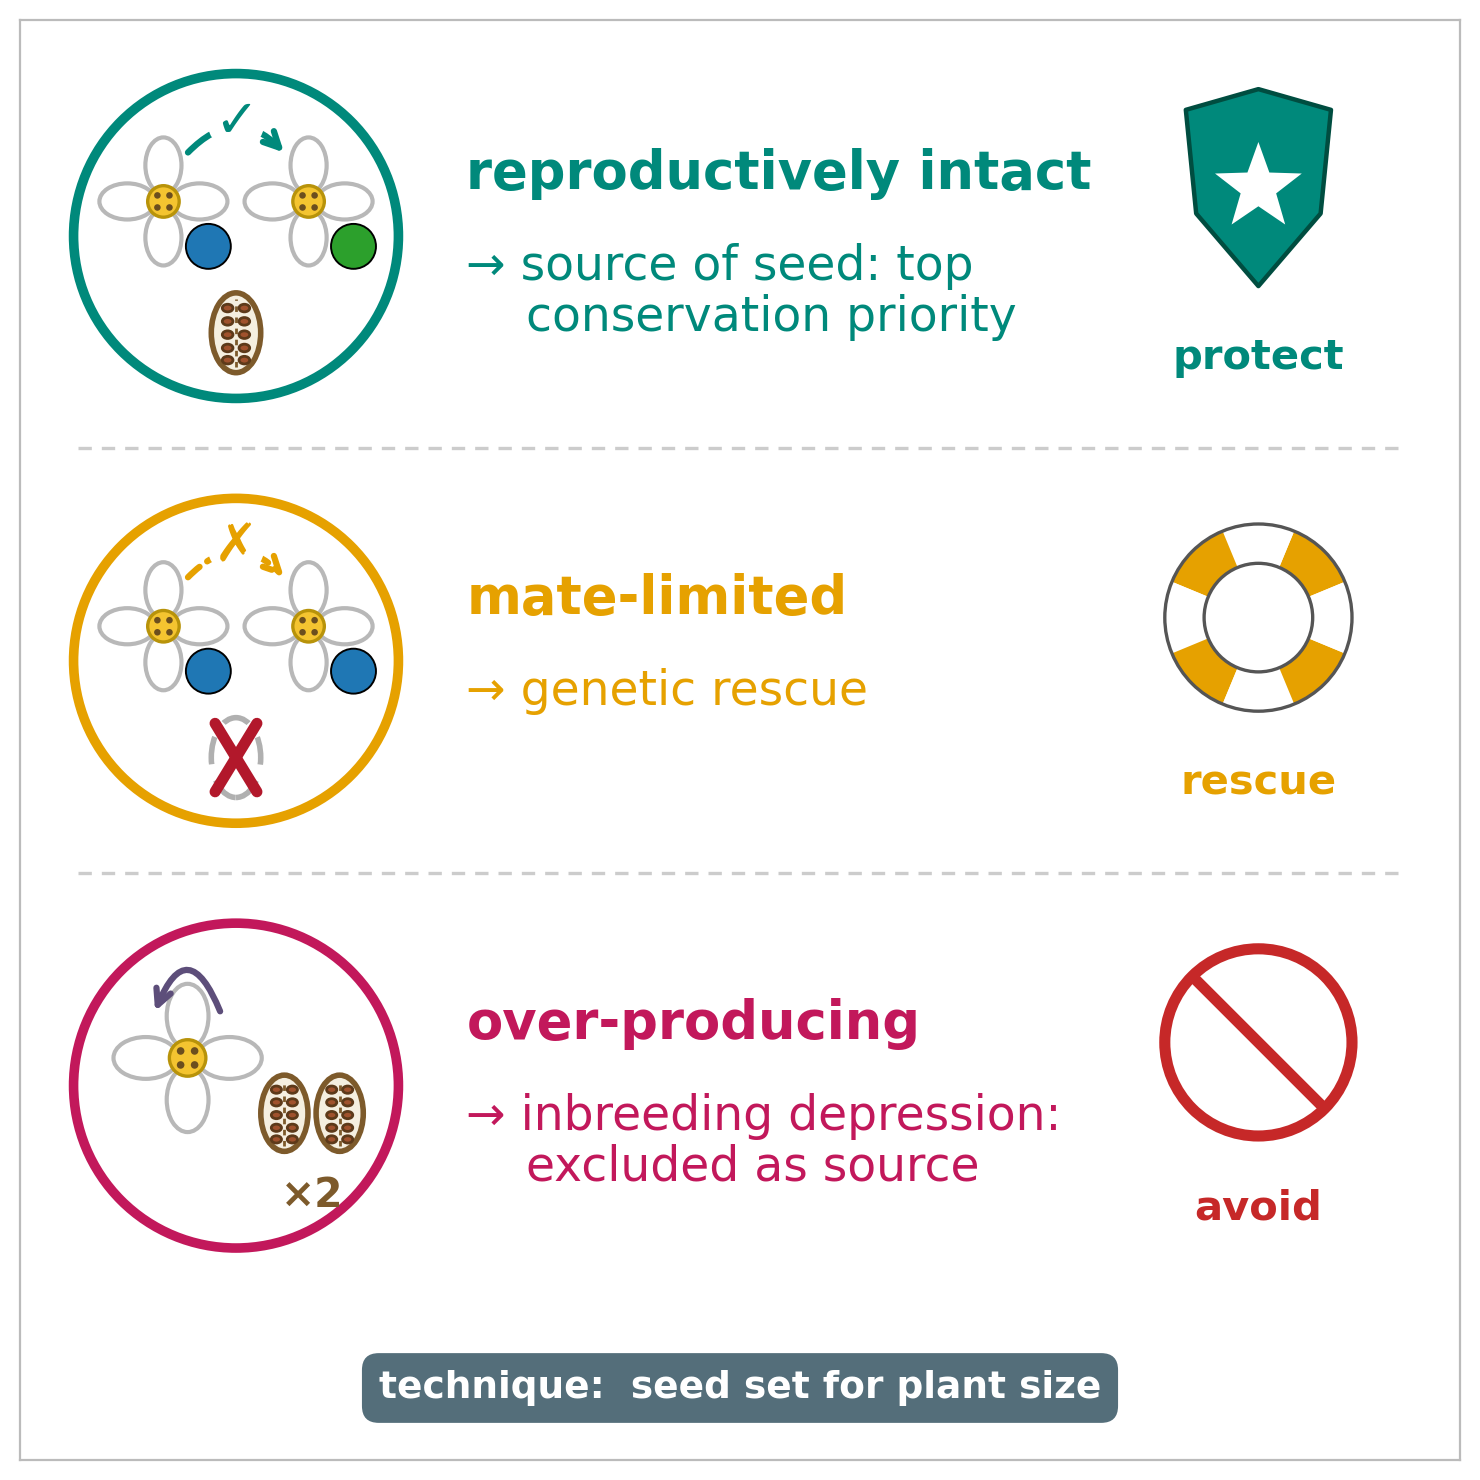
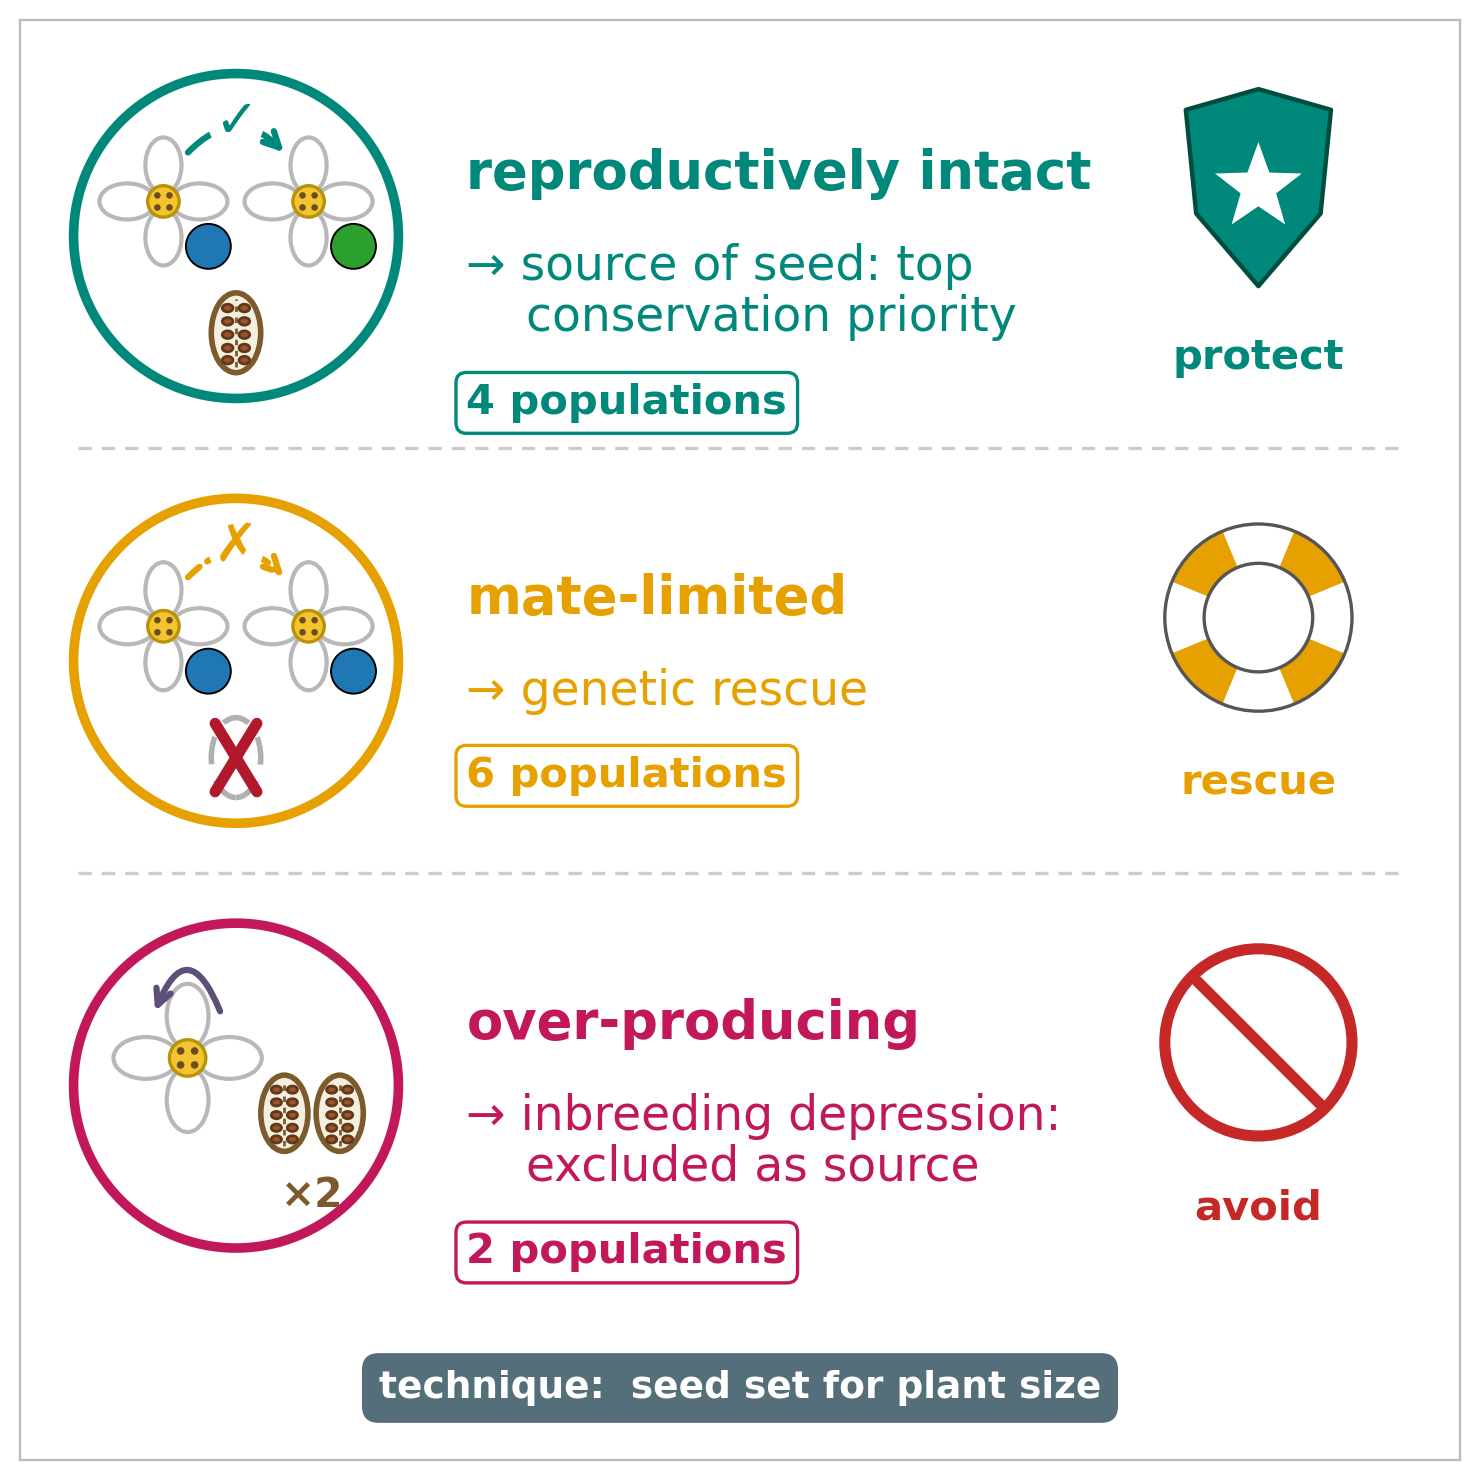
Seed_bulking: Part 1 results as three findings (EOs respect populations; most EOs = one population; some hold many), EO27 hotspot of mate limitation in § 7.3.1/7.4.2/§ 8; Figure 2 talk frame types_use with populations per type

Changed region(s): [[0.3108, 0.8081, 0.5595, 0.8703], [0.3108, 0.4973, 0.5595, 0.5595], [0.3108, 0.2486, 0.5595, 0.3108]]

diff --git a/Scripts/restoration_program_cartoon.py b/Scripts/restoration_program_cartoon.py
@@ -197,6 +197,14 @@ def panel_sources(ax):
     technique(ax, "seed set for plant size (see Figure 3)", y=3.5)
 
 
+def type_counts() -> dict[str, int]:
+    """Populations per reproductive type, two seasons of seed data
+    (tables/step32_seed_bulking_populations.tsv, written by step32_seed_bulking.py)."""
+    import pandas as pd
+    st = pd.read_csv("tables/step32_seed_bulking_populations.tsv", sep="\t")
+    return st["type"].value_counts().to_dict()
+
+
 def panel_sources_talk(ax, use=True):
     """Talk version of panel_sources, no title: the three population types
     aligned, one row each (badge, type); use=True adds what each means for
@@ -215,6 +223,11 @@ def panel_sources_talk(ax, use=True):
         if use:
             ax.text(31, y - 0.5, action, ha="left", va="top", fontsize=17, color=col,
                     linespacing=1.1)
+            n = type_counts().get(kind, 0)               # populations typed (two seasons)
+            ax.text(31, y - 3 - 3.6 * (action.count("\n") + 1),
+                    f"{n} population{'s' if n != 1 else ''}", ha="left", va="top",
+                    fontsize=15, color=col, fontweight="bold",
+                    bbox=dict(boxstyle="round,pad=0.25", fc="white", ec=col, lw=1.2))
     for y in (70.25, 40.75):
         ax.plot([4, 96], [y, y], color="#CCCCCC", lw=1.2, ls=(0, (4, 3)), zorder=0)
     technique(ax, "seed set for plant size", y=5)

diff --git a/Seed_bulking.md b/Seed_bulking.md
@@ -307,13 +307,20 @@ BL1 holds the most populations but the smallest share present in both
 seasons (6 of 17); across all lineages, 18 populations were above ground in
 only one of the two seasons.
 
-**How EOs compare with populations.** The two are **nested**: no
-population crosses an EO boundary, so every population lies within a
-single EO. This is a real test: populations are built from all slick
-spots together, without reference to EOs, so a population would join
-two EOs wherever their slick spots came within 500 m. They never do —
-the closest slick spots of two different EOs (EO8 and EO26) are 1.1 km
-apart, and the next closest pair (EO18 and EO25) 1.25 km.
+**Do EOs reflect populations? Three results.**
+
+1. **EOs respect populations: none of our 44 populations crosses an EO
+   boundary.** Every population lies within a single EO, so the two are
+   **nested**. This is a real test: populations are built from all slick
+   spots together, without reference to EOs, so a population would join
+   two EOs wherever their slick spots came within 500 m. They never do —
+   the closest slick spots of two different EOs (EO8 and EO26) are
+   1.1 km apart, and the next closest pair (EO18 and EO25) 1.25 km.
+2. **Most EOs are one population: 13 of the 21 EOs we sampled hold a
+   single population.** In these EOs, the EO and the population align.
+3. **Some EOs hold many: the other 8 EOs hold 31 populations, and EO27
+   alone holds 10** (EO26 five, EO24 and EO30 four, EO8, EO25, EO32 and
+   EO76 two each).
 
 | EOs | Populations per EO | Populations |
 |---|---|:-:|
@@ -324,9 +331,10 @@ apart, and the next closest pair (EO18 and EO25) 1.25 km.
 | 1 | ten (EO27) | 10 |
 | **21** | | **44** |
 
-In the other direction, four populations join two parts of the same EO
+Within EOs, four populations join two parts of the same EO
 (P34 = EO18-7 + EO18-8; P16 = EO27-1 + EO27RT; P21 and P22 each join a
-part of EO26 with EO26 itself).
+part of EO26 with EO26 itself), so EO parts do not always mark separate
+populations either.
 
 <a id="fig-7"></a>
 ![Figure 7](figures_seed_bulking/population_EO_map_BL.png)
@@ -335,29 +343,19 @@ part of EO26 with EO26 itself).
 
 ### 6.4 Discussion
 
-- **EOs reflect populations in most places, and never cut across
-  them.** 13 of the 21 EOs hold exactly one population, and no
-  population is split between EOs: EOs and populations are nested, not
-  in conflict. Where an EO holds one population, the EO can be managed,
-  sampled and restored as that population.
-- **Where they differ, the EO is the coarser unit.** 8 EOs hold several
-  populations — 31 of the 44 — EO27 ten, EO26 five, EO24 and EO30 four.
-  This is expected: EOs are drawn to track where the species occurs and
-  to manage the landscape, while populations follow pollen movement
-  (§ 6.2). Mate limitation and genetic rescue act on the plants that
-  mate together, so in these EOs restoration works on the populations
-  within the EO, and the EO remains the frame for landscape
-  management.
-- **Populations within one EO differ in reproductive type** (§ 7).
-  EO27 holds BL1's only source, P13, next to three mate-limited
-  populations (P8, P10, P16) — P13 and P16 even share the EO part
-  EO27-1 ([Figure 11](#fig-11), zoom); EO25 holds the source P35 (EO25-A) and the candidate
-  mate-limited P36 (EO25-B). Judged as one unit, EO27 would either hide
-  BL1's only source or mask its mate limitation, and seed collected
-  across the EO would mix source seed with seed from mate-limited
-  plants. Seed bulking draws its seed from whole populations and
-  restoration targets whole populations, so in multi-population EOs
-  both work at the population level.
+- **EOs are a sound frame for populations.** Because no population
+  crosses an EO boundary (result 1), every population can be placed in
+  one EO, and the EO remains the frame for landscape management. Where
+  an EO holds one population (result 2), it can be managed, sampled and
+  restored as that population.
+- **Where they differ, the EO is the coarser unit** (result 3). This is
+  expected: EOs are drawn to track where the species occurs and to manage
+  the landscape, while populations follow pollen movement (§ 6.2). Mate
+  limitation and genetic rescue act on the plants that mate together, so
+  in the 8 EOs that hold several populations — 31 of the 44 —
+  **seed sourcing and rescue must work at the population level, inside
+  the EO frame.** Part 2 shows why this matters: populations within one
+  EO can differ in reproductive type (EO27, § 7.4.2).
 - **Demes are the unit of mating.** They set how many mothers to sample
   within a population for SRK genotyping
   ([`Sampling_design.md`](Sampling_design.md)).
@@ -453,6 +451,11 @@ twice the expectation: these three can be confirmed as sources first
 mate-limited candidates, P1, P4 and P32 show a strong seed shortfall
 and should be measured again before they are typed
 ([Figure 10](#fig-10), [Figure 11](#fig-11)).
+
+**Mate limitation is concentrated in EO27.** Three of the four
+confirmed mate-limited populations — P8, P10 and P16 — lie in one EO,
+EO27 (BL1); the fourth, P42, is in BL5. EO27 also holds P13, BL1's
+only reproductively intact population (§ 7.4.2).
 
 <a id="fig-10"></a>
 ![Figure 10](figures_seed_bulking/population_seed_yield.png)
@@ -593,8 +596,25 @@ pattern — a strong shortfall in 2025 (0.37 and 0.42), then about the
 expected seed in 2026 (1.15 and 0.86) — so their mate limitation may
 vary from year to year. P13 (EO27-1) sets the seed its size predicts in
 both seasons, and P9 (EO27, measured in 2026 only) does so too (1.30).
-EO27 is the clearest cluster of mate limitation in the dataset and the
-first place to confirm it genetically.
+**EO27 is a hotspot of mate limitation**: it holds three of the four
+confirmed mate-limited populations (P8, P10, P16), which need
+restoration actions (genetic rescue). It also holds BL1's only
+reproductively intact population, P13, a local source for that rescue,
+once its genetics are confirmed. EO27 is the first place to confirm
+mate limitation genetically. This is a concentration seen in the data,
+not a statistical test, and five of its ten populations have no seed
+data yet.
+
+**Why populations, not EOs (§ 6).** EO27 holds BL1's only source, P13,
+next to three mate-limited populations (P8, P10, P16) — P13 and P16 even
+share the EO part EO27-1 ([Figure 11](#fig-11), zoom); likewise, EO25
+holds the source P35 (EO25-A) and the candidate mate-limited P36
+(EO25-B). Judged as one unit, EO27 would either hide BL1's only source
+or mask its mate limitation, and seed collected across the EO would mix
+source seed with seed from mate-limited plants. Seed bulking draws its
+seed from whole populations and restoration targets whole populations,
+so in EOs that hold several populations both work at the population
+level.
 
 **P13: intact by seed set, at odds with its genetics.** Its seed set
 is significantly within half – twice the expectation in both seasons
@@ -727,7 +747,9 @@ rerun (`./run_pipeline.sh seedyield`, `sampling`, `design`, `bulking`).
   within half – twice the expectation in both seasons — P34, P35 (BL3),
   P43 (BL5) and P13 (BL1), the sources; 4 mate-limited (P8,
   P10, P16, P42) plus 2 candidates (P6, P36), the restoration targets; 2
-  over-producing (P2, P37), excluded. Where SRK genotypes exist, they
+  over-producing (P2, P37), excluded. **EO27 is a hotspot of mate
+  limitation** (P8, P10, P16), with BL1's only source, P13, in the same
+  EO as a local source for their rescue. Where SRK genotypes exist, they
   back the call for P34 against P42; P13's few genotyped plants have
   low compatibility, so more of its mothers will be genotyped.
 - **Next.**
